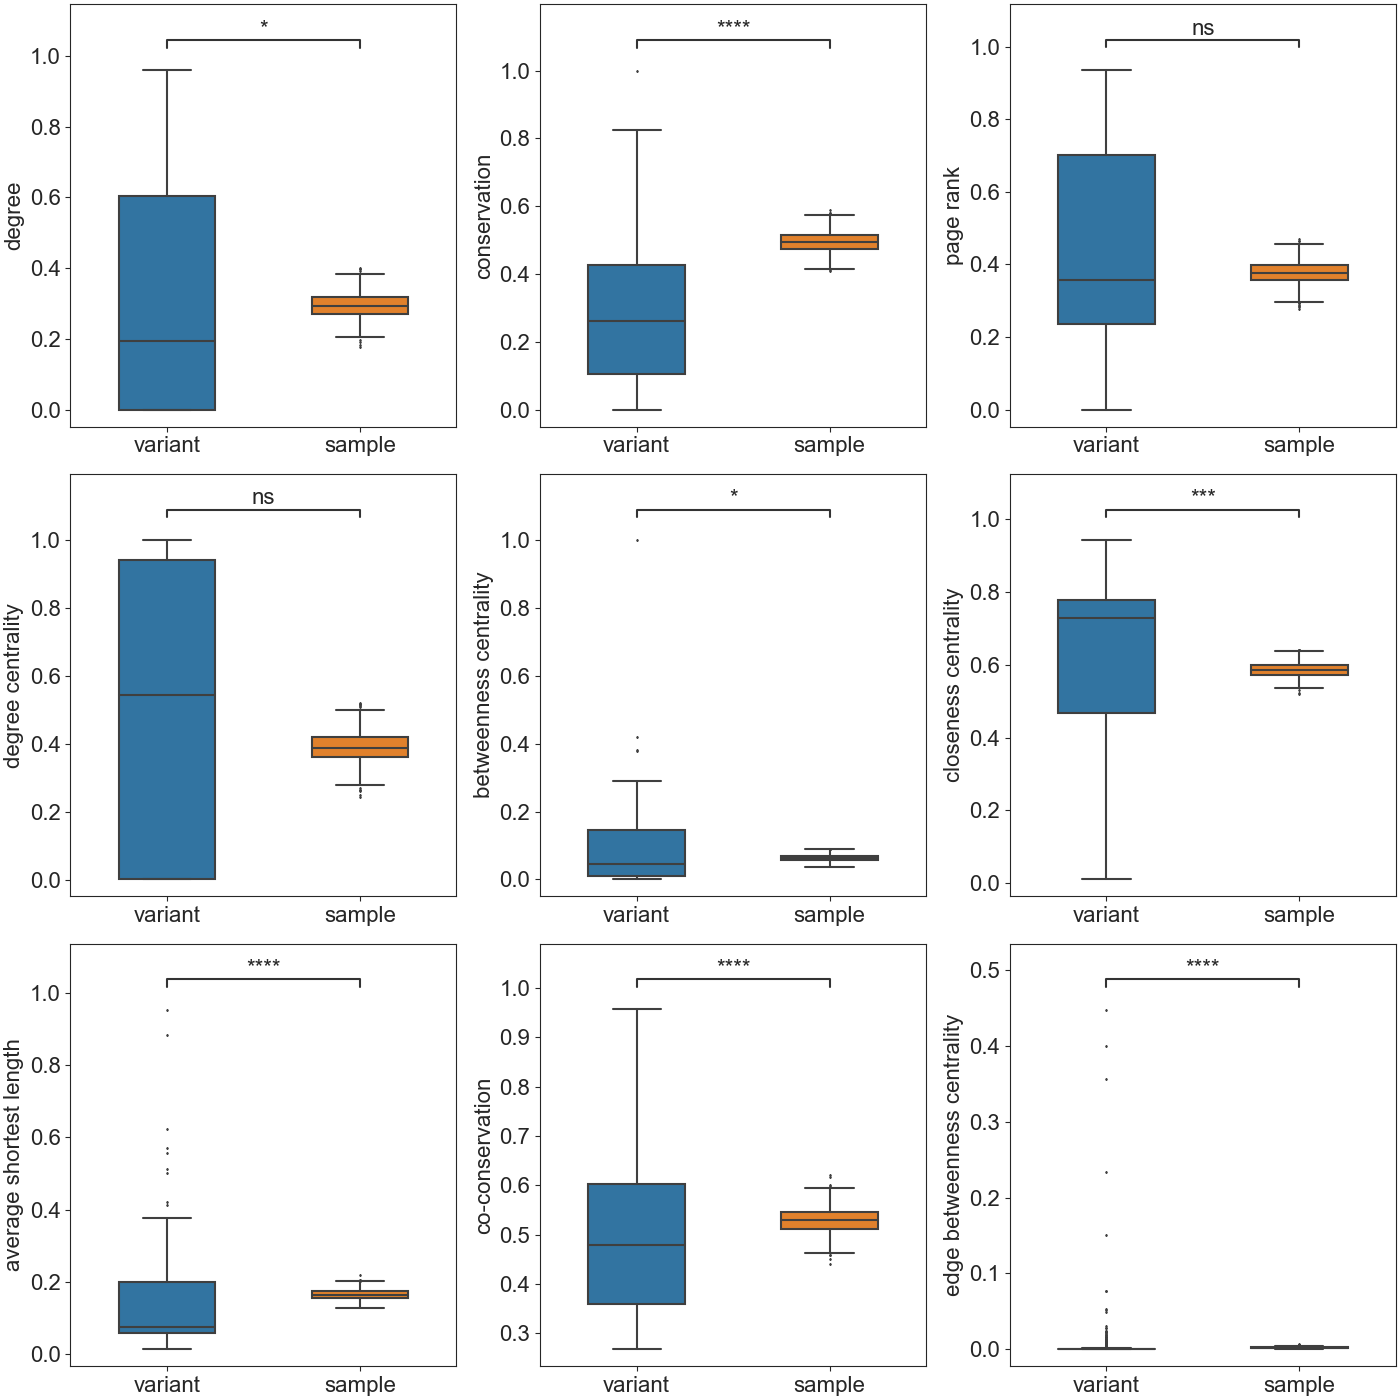
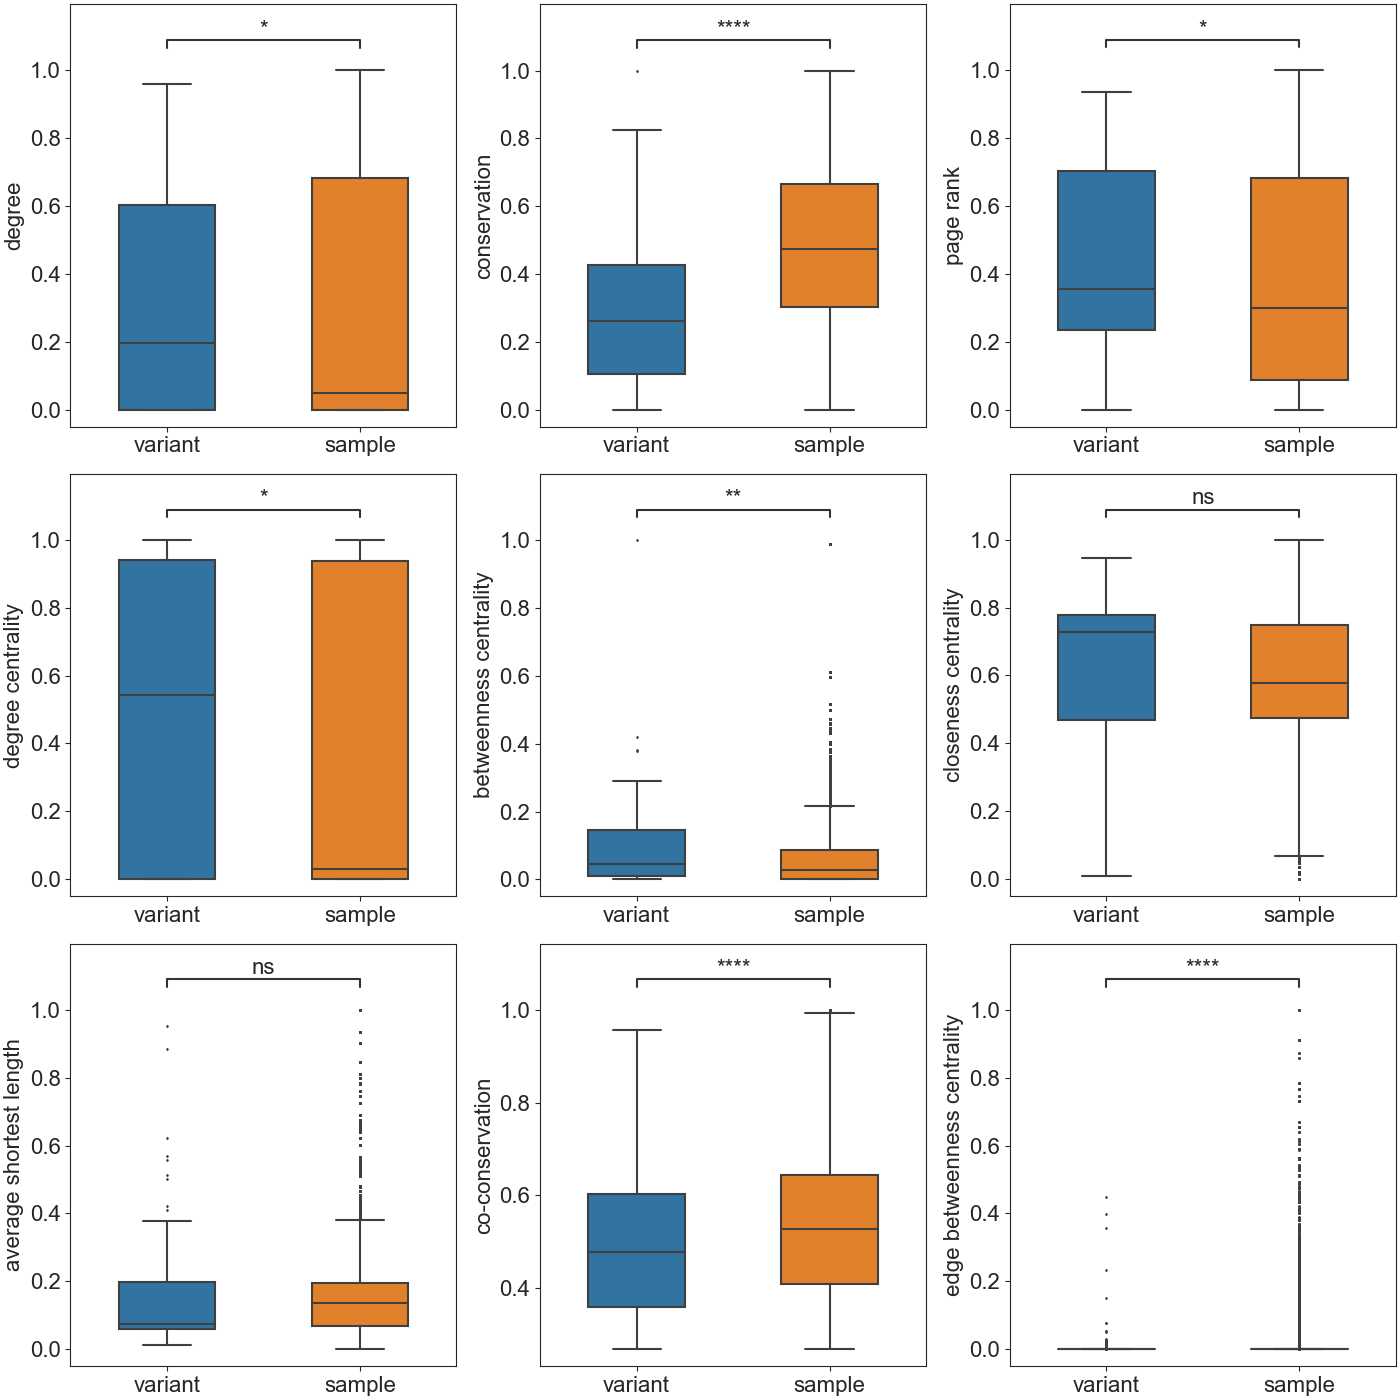
apply sample by flatten;

diff --git a/v2/output_procon_analysis.py b/v2/output_procon_analysis.py
@@ -1087,7 +1087,8 @@ class ProConNetwork:
     def _boxplot_for_all_kinds(self, target_variant=None):
         def _func_boxplot(variant, sample, ax, func, name, target_variant):
             variant_scores = func(variant)
-            sample_scores = [np.mean(func(i)) for i in sample]  # 分组求平均
+            # sample_scores = [np.mean(func(i)) for i in sample]  # 分组求平均
+            sample_scores = [j for i in sample for j in func(i)]  # 分组求平均
 
             # 绘制箱线图
             _plot_data = pd.DataFrame(
